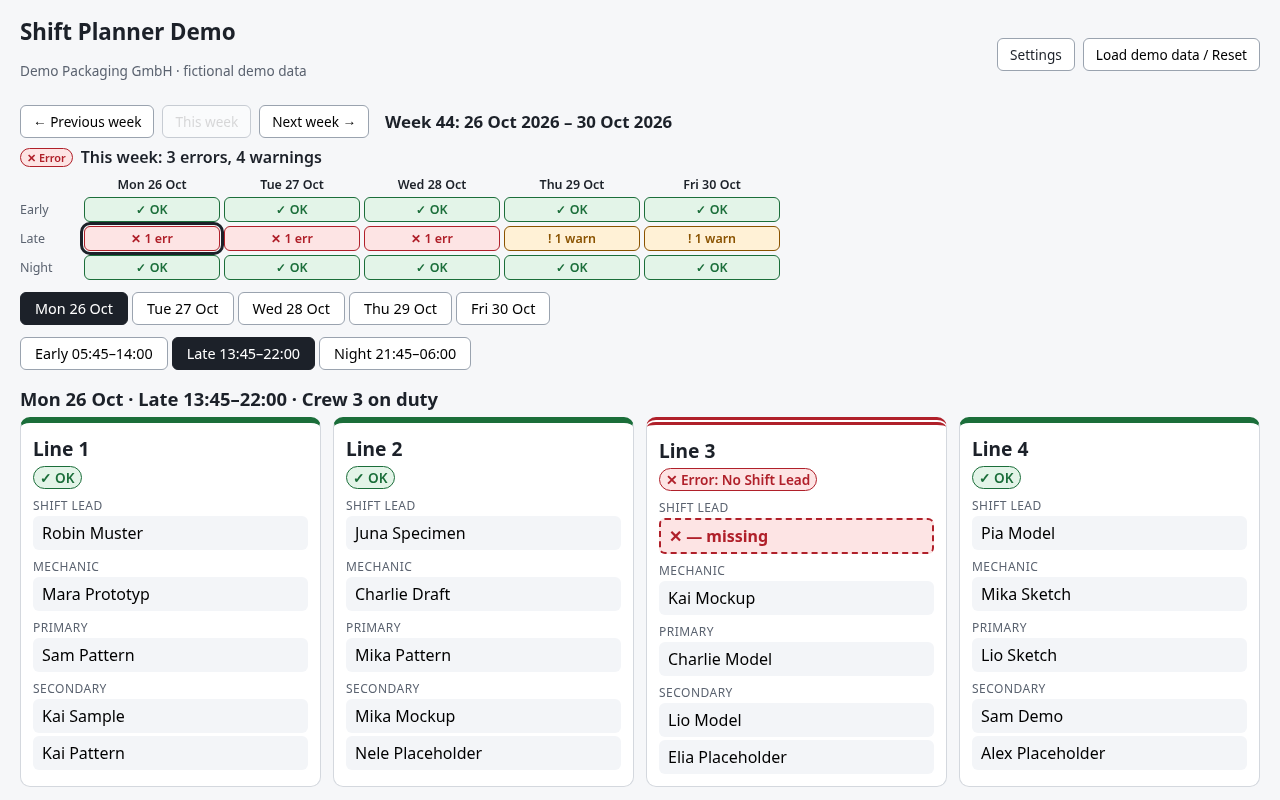
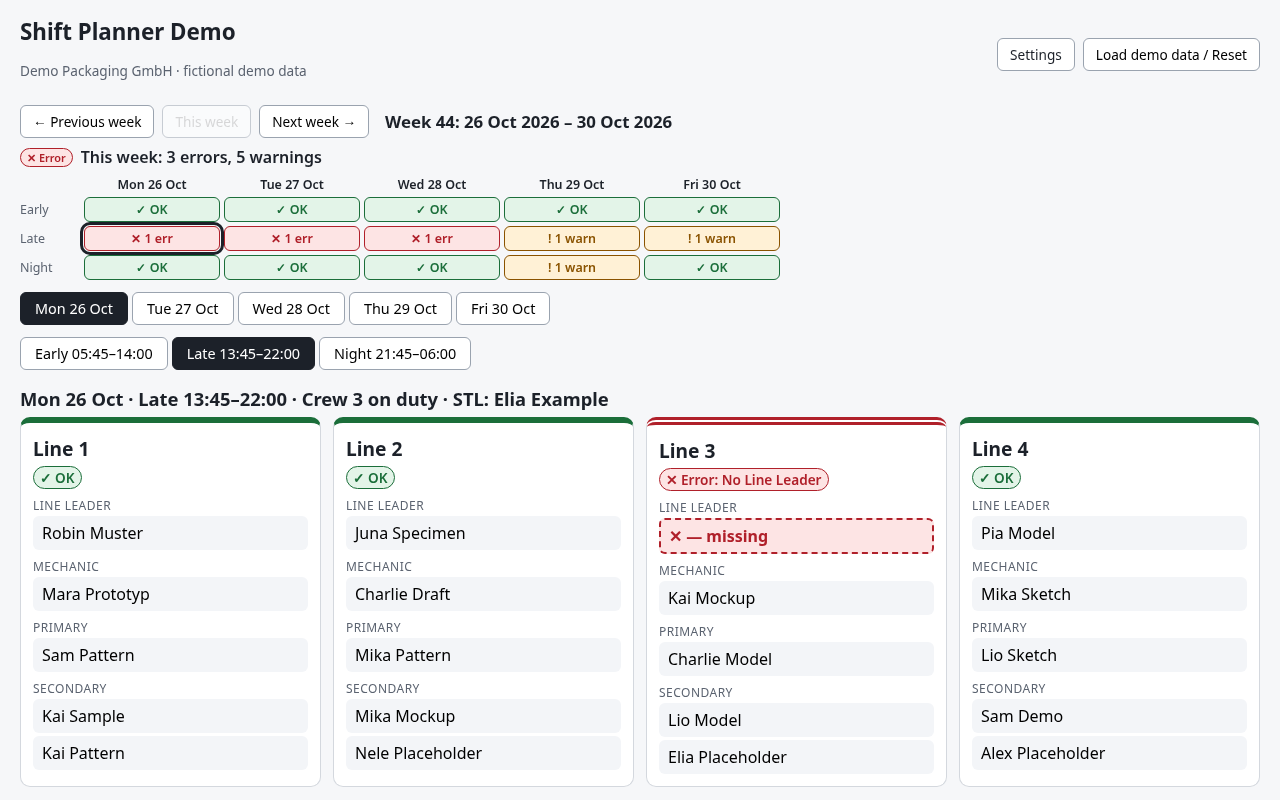
docs: STL and Line Leader in README, refresh planner screenshot

diff --git a/README.md b/README.md
@@ -32,7 +32,7 @@ glance and get **suggestions** for cover. The planner always makes the final dec
 - **Week strip:** 15 small chips (Mon-Fri x Early/Late/Night) show each shift's status with an
   icon and text (✓ OK, ! warn, ✕ err). Click a chip to open that shift. A one-line summary
   shows the week's total errors and warnings.
-- **One shift at a time:** day tabs and shift tabs, with the crew on duty and the shift times.
+- **One shift at a time:** day tabs and shift tabs, with the shift times, the crew on duty and its STL.
 - **Line cards (Line 1-4):** each card has fixed rows: Line Leader, Mechanic, Primary,
   Secondary (1-2). Empty slots read **"— missing"** and are styled as errors. The card header
   says what is wrong in a few words (e.g. "No Primary", "Only 1 Secondary").
@@ -55,7 +55,12 @@ glance and get **suggestions** for cover. The planner always makes the final dec
 | Late  | 13:45 - 22:00 |
 | Night | 21:45 - 06:00 |
 
-**Roles:** Primary, Secondary, Line Leader, Mechanic.
+**Roles:** Primary, Secondary, Line Leader, Mechanic (staffed per line), plus one
+**STL (Shift Team Leader)** per crew who leads the whole shift.
+
+- The STL on duty is shown in the shift heading. The STL is not counted in line staffing and
+  is never suggested as line cover. If the STL is absent, the shift gets a **warning**
+  "No STL on duty" (not an error).
 
 **Minimum staffing per line and shift**
 
@@ -91,7 +96,7 @@ glance and get **suggestions** for cover. The planner always makes the final dec
 - zod for schemas and runtime validation
 - Vitest + Testing Library for unit and component tests
 - ESLint (flat config) + Prettier
-- Deterministic, seeded demo-data generator (66 people in 3 crews, incl. 2 spares each)
+- Deterministic, seeded demo-data generator (69 people in 3 crews: 20 line staff, 2 spares and 1 STL each)
 
 ```
 src/domain/
